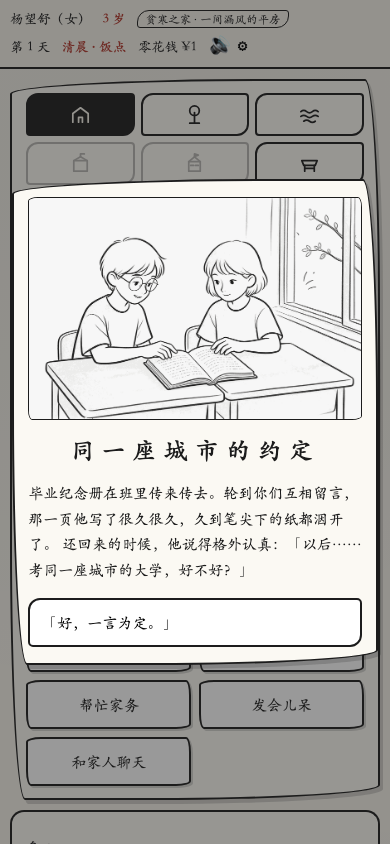
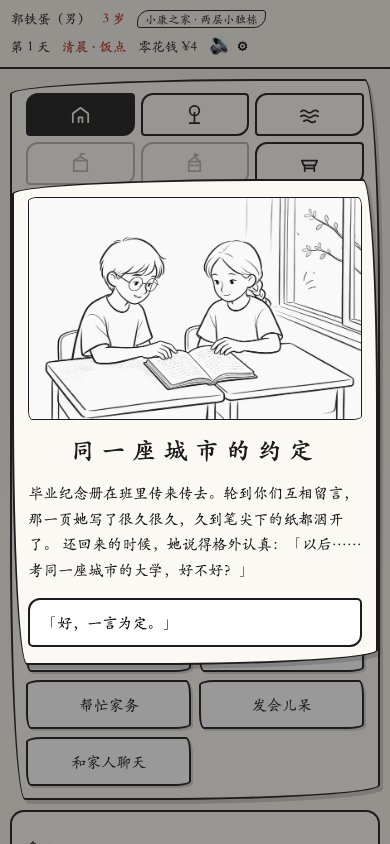
crush-date 换版（麻花辫版）+ 结局 CG 方案定稿与提示词
- cg-crush-date 替换为用户选定版，旧版原稿留档 cg-crush-date-v1.png
- 结局 CG 拍板：提前谢幕新画空镜 cg-ending-early（无人物，文生图），
  成年结局复用 cg-m18；提示词与接入 checklist 已入文档

diff --git a/即梦提示词-CG.md b/即梦提示词-CG.md
@@ -339,8 +339,46 @@
    800×533 64 色量化入库 `assets/cg/`（42–53KB/张）
 3. [x] 已接入：rich-finale-a / crush-3a / dream-form 挂 `cg` 字段（b 分支不挂），
    移动端实测截图见 `_dev/shots/cg-shot-cg-rich-finale/crush-date/dream-form.png`
-4. [ ] 结局 CG（cg-ending）另开话题单独讨论，不在本批——**待定：提前谢幕空镜 1 张，
-   成年结局复用 cg-m18，等拍板**
+4. [x] crush-date 已按用户选定换版（麻花辫版，2026-09-30 替换，旧版原稿留档
+   `_dev/src-art/src/cg-crush-date-v1.png`）；性别备注随之作废——玩家为男时图文正好一致
+5. [ ] 结局 CG：方案已拍板（2026-09-30）——提前谢幕新画空镜 1 张（见下方第四批），
+   成年结局复用 cg-m18；空镜出图后实现结局页页头横幅
+
+---
+
+# CG 第四批 · 结局（1 张，提示词定稿，可直接出图）
+
+> 方案（2026-09-30 拍板）：
+> - **落幕·成年**：不新画，结局页页头直接复用 `cg-m18`（它本来就是"收尾+未完待续"设计）；
+> - **提前谢幕**：新画 `cg-ending-early` 1 张，**画空镜不画人**——黑白线稿碰死亡话题，
+>   人物出场极易翻车，空镜的克制正好配得上"提前谢幕"四个字。
+> - 规格仍是 3:2 横幅（和弹窗 CG 同管线），接入位置是结局页页头，不是弹窗。
+
+### F1. `cg-ending-early.png` 提前谢幕（健康归零结局，空镜，无人物）
+
+```
+画一张横幅插画，黑白极简墨水线稿风格：
+黄昏的小院角落，一张空着的小竹椅，椅背上搭着一件小孩的外套，
+椅子旁的地上放着一小束野花（简单的几朵小花扎在一起），
+远处一道矮墙和两根电线杆的极简轮廓，天空大量留白，
+画一两只归鸟的剪影，光线是傍晚的安静，
+整张画不出现任何人物，
+粗而均匀的主轮廓线，极少细节线，无阴影无投影，
+横幅 3:2 构图，bold uniform outline, minimal detail lines
+```
+
+> 这张没有垫图（空镜，不需要角色锚定），直接文生图即可。
+> 关键词是"有人刚刚离开"：椅子是主角，外套和野花是叙事，留白是情绪。
+> 验收标准：一眼看去是"怀念"而不是"恐怖"；如果野花画成花圈感就重出。
+
+---
+
+## 第四批出图后 checklist
+
+1. [ ] 空镜无人物；情绪是怀念不是悲伤轰炸
+2. [ ] 原图丢 `_dev/src-art/src/`，命名 `cg-ending-early`
+3. [ ] 通知我接入：结局页（screen-end）页头横幅——`cause === 'early'` 挂 cg-ending-early，
+   否则复用 cg-m18；需要给结局页加一个新的 banner 位（与弹窗 ev-cg 样式同族）
 
 ---
 
